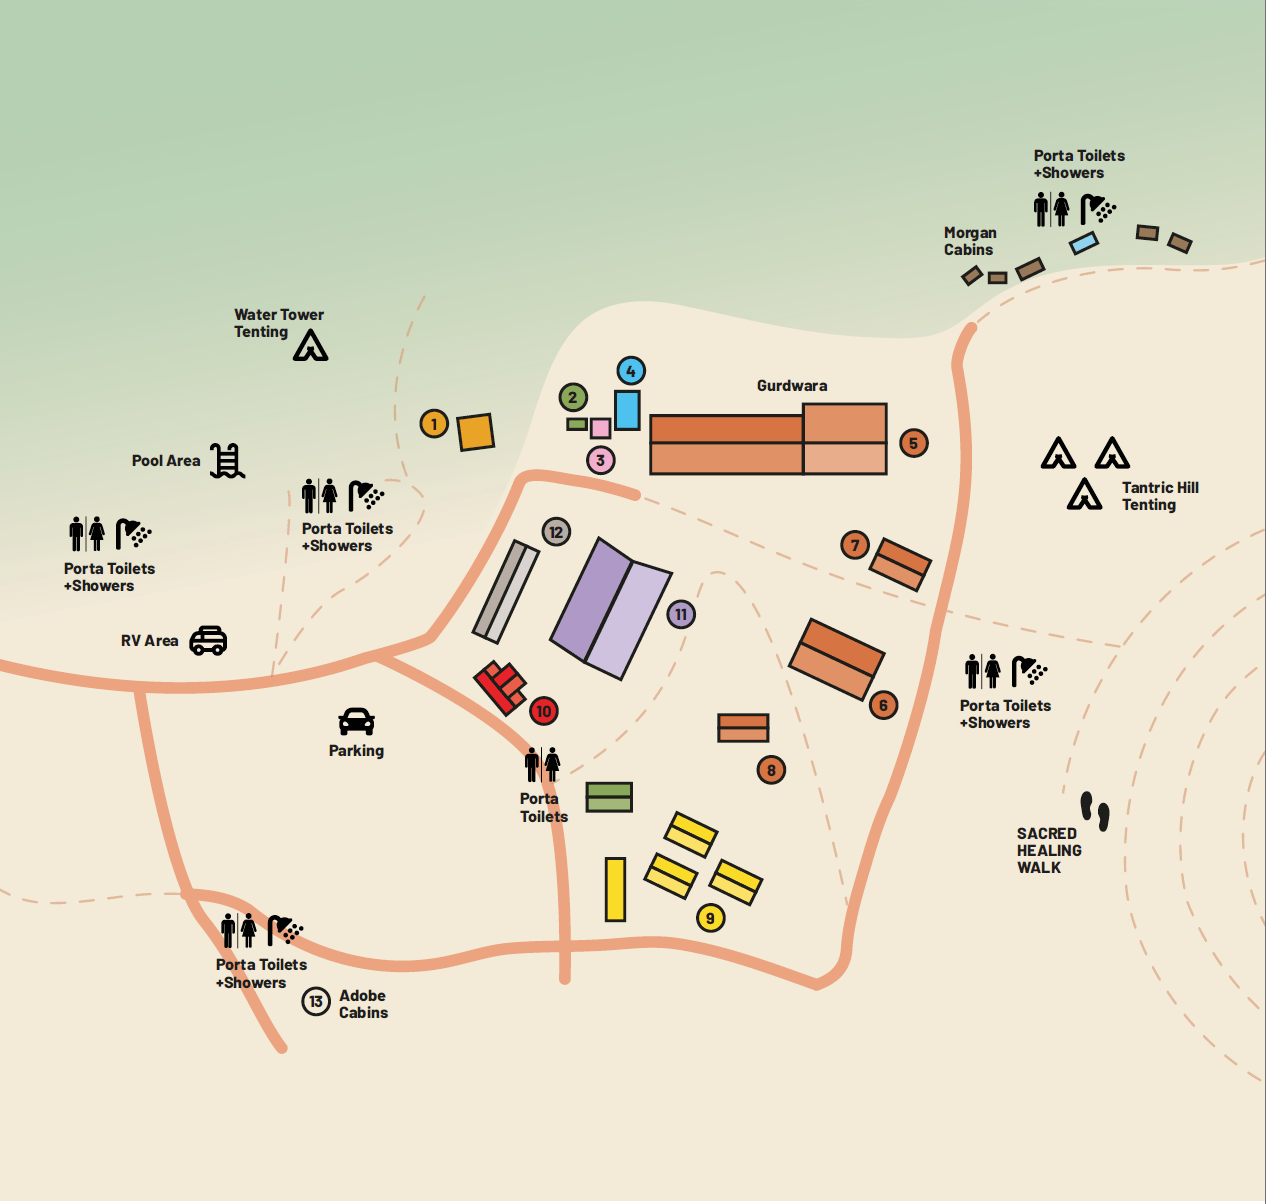
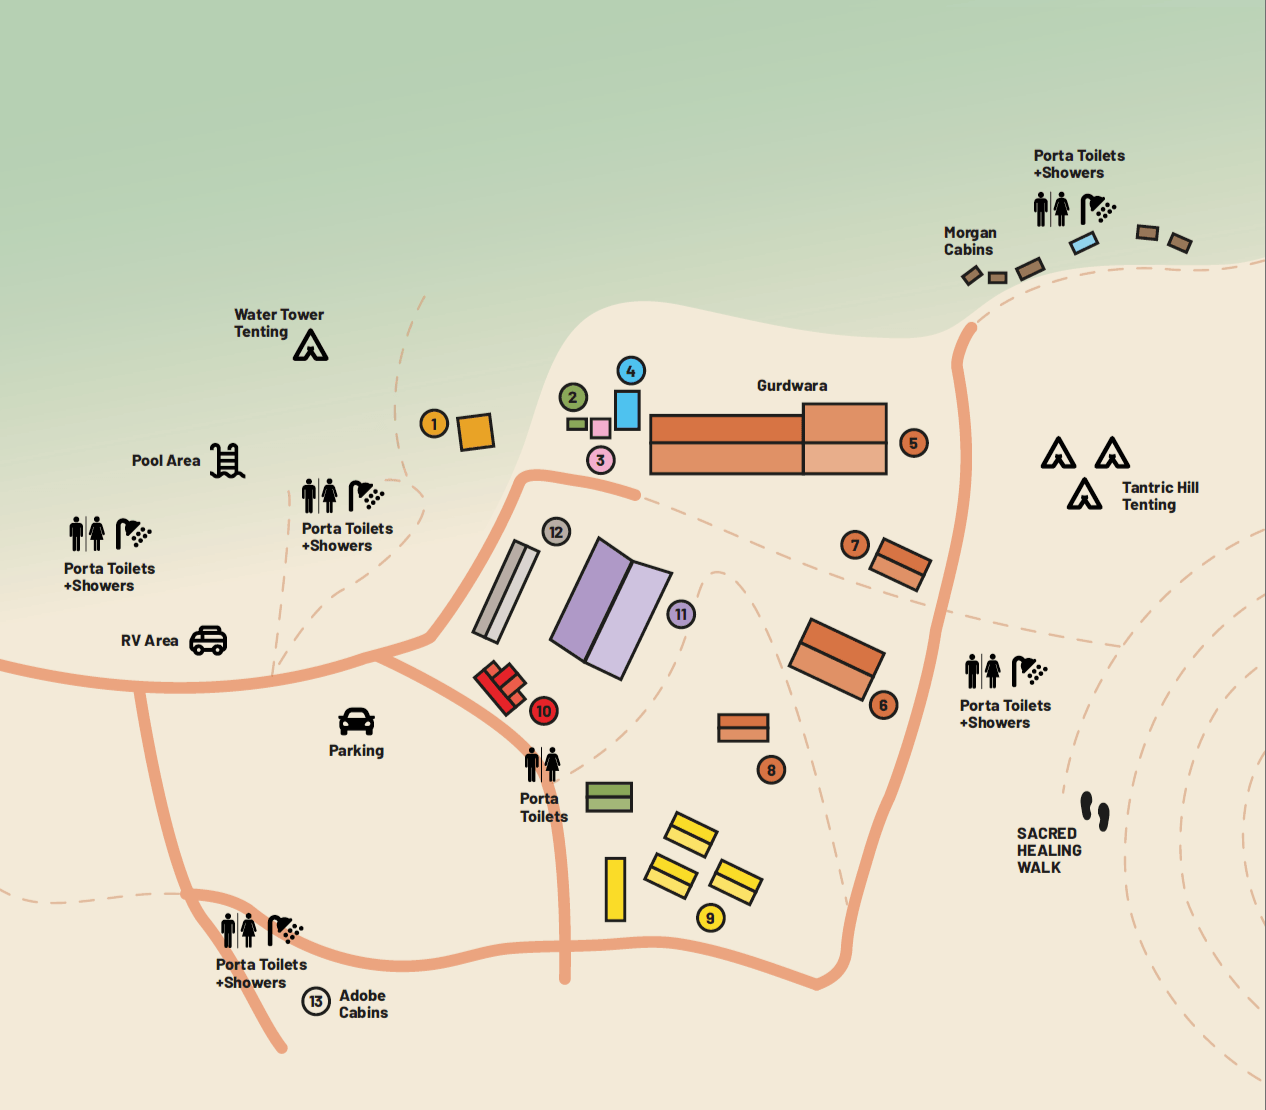
ajustes de carga y mapa

diff --git a/src/app/map/map-viewer.tsx b/src/app/map/map-viewer.tsx
@@ -245,26 +245,6 @@ export function MapViewer() {
               <List className="h-3.5 w-3.5" />
               All venues
             </button>
-            <div className="ml-auto flex min-h-11 items-center gap-1 rounded-full bg-white p-1 shadow-sm ring-1 ring-sky-900/10">
-              <button
-                type="button"
-                onClick={() => applyZoom(zoom - ZOOM_STEP)}
-                disabled={zoom <= MIN_ZOOM}
-                className="inline-flex h-9 w-9 items-center justify-center rounded-full bg-sky-50 text-[#2f62b6] transition active:scale-95 disabled:opacity-40"
-                aria-label="Zoom out map"
-              >
-                <Minus className="h-4 w-4" />
-              </button>
-              <button
-                type="button"
-                onClick={() => applyZoom(zoom + ZOOM_STEP)}
-                disabled={zoom >= MAX_ZOOM}
-                className="inline-flex h-9 w-9 items-center justify-center rounded-full bg-[#2f62b6] text-white transition active:scale-95 disabled:opacity-40"
-                aria-label="Zoom in map"
-              >
-                <Plus className="h-4 w-4" />
-              </button>
-            </div>
           </div>
           <div className="no-scrollbar mt-3 flex gap-2 overflow-x-auto pb-1">
             {featuredVenues.map((item) => (
@@ -290,32 +270,100 @@ export function MapViewer() {
             ))}
           </div>
         </div>
-        <div
-          ref={containerRef}
-          className="app-map-scroll relative h-[58vh] min-h-[22rem] max-h-[44rem] overflow-auto bg-[#f3ead8] overscroll-contain"
-        >
-          <div className="relative" style={{ width: scaledWidth, height: scaledHeight }}>
-            {/* eslint-disable-next-line @next/next/no-img-element */}
-            <img
-              src="/images/camp-map.png"
-              alt="Camp map for Summer Solstice 2026"
-              width={scaledWidth}
-              height={scaledHeight}
-              className="absolute inset-0 max-w-none"
-            />
-            {selectedItem ? (
-              <div
-                className="pointer-events-none absolute flex h-14 w-14 -translate-x-1/2 -translate-y-1/2 items-center justify-center rounded-full bg-sky-200/25 ring-4 ring-[#2f62b6]/30"
-                style={{ left: selectedItem.point.x * zoom, top: selectedItem.point.y * zoom }}
-              >
-                <span
-                  className="flex h-8 w-8 items-center justify-center rounded-full border-2 border-slate-950 text-sm font-black text-slate-950 shadow-lg"
-                  style={{ backgroundColor: selectedItem.color }}
+        <div className="relative">
+          <div
+            ref={containerRef}
+            className="app-map-scroll relative h-[58vh] min-h-[22rem] max-h-[44rem] overflow-auto bg-[#f3ead8] overscroll-contain"
+          >
+            <div
+              className="relative"
+              style={{ width: scaledWidth, height: scaledHeight }}
+              onClick={() => setSelectedVenue(null)}
+            >
+              {/* eslint-disable-next-line @next/next/no-img-element */}
+              <img
+                src="/images/camp-map.png"
+                alt="Camp map for Summer Solstice 2026"
+                width={scaledWidth}
+                height={scaledHeight}
+                className="absolute inset-0 max-w-none"
+              />
+              {mapLegend.map((item) => (
+                <button
+                  key={item.number}
+                  type="button"
+                  onClick={(event) => {
+                    event.stopPropagation();
+                    setSelectedVenue(item.number);
+                  }}
+                  aria-label={`Show ${item.label.replace(/\n/g, ", ")} on map`}
+                  aria-describedby={selectedVenue === item.number ? `map-tooltip-${item.number}` : undefined}
+                  className={`absolute z-10 flex h-12 w-12 -translate-x-1/2 -translate-y-1/2 items-center justify-center rounded-full transition active:scale-95 focus-visible:bg-white/80 focus-visible:outline-none focus-visible:ring-2 focus-visible:ring-[#2f62b6] ${
+                    selectedVenue === item.number ? "bg-white/15 ring-2 ring-[#2f62b6]/45" : "bg-transparent"
+                  }`}
+                  style={{ left: item.point.x * zoom, top: item.point.y * zoom }}
                 >
-                  {selectedItem.number}
-                </span>
-              </div>
-            ) : null}
+                  <span className="sr-only">{item.shortLabel}</span>
+                </button>
+              ))}
+              {selectedItem ? (
+                <div
+                  className="pointer-events-none absolute z-20 flex h-14 w-14 -translate-x-1/2 -translate-y-1/2 items-center justify-center rounded-full bg-sky-200/25 ring-4 ring-[#2f62b6]/30"
+                  style={{ left: selectedItem.point.x * zoom, top: selectedItem.point.y * zoom }}
+                >
+                  <span
+                    className="flex h-8 w-8 items-center justify-center rounded-full border-2 border-slate-950 text-sm font-black text-slate-950 shadow-lg"
+                    style={{ backgroundColor: selectedItem.color }}
+                  >
+                    {selectedItem.number}
+                  </span>
+                </div>
+              ) : null}
+              {selectedItem ? (
+                <div
+                  id={`map-tooltip-${selectedItem.number}`}
+                  role="tooltip"
+                  className="pointer-events-none absolute z-30 w-52 -translate-x-1/2 -translate-y-[calc(100%+1rem)] rounded-xl bg-white px-3 py-2 text-left shadow-xl ring-1 ring-sky-900/10"
+                  style={{ left: selectedItem.point.x * zoom, top: selectedItem.point.y * zoom }}
+                >
+                  <span className="absolute left-1/2 top-full h-3 w-3 -translate-x-1/2 -translate-y-1/2 rotate-45 bg-white ring-1 ring-sky-900/10" />
+                  <span className="relative flex items-start gap-2">
+                    <span
+                      className="flex h-7 w-7 shrink-0 items-center justify-center rounded-full border border-slate-950/30 text-xs font-black text-slate-950"
+                      style={{ backgroundColor: selectedItem.color }}
+                    >
+                      {selectedItem.number}
+                    </span>
+                    <span className="min-w-0">
+                      <span className="block text-sm font-black leading-tight text-slate-950">{selectedItem.shortLabel}</span>
+                      <span className="mt-0.5 block whitespace-pre-line text-xs font-semibold leading-snug text-slate-600">
+                        {selectedItem.label}
+                      </span>
+                    </span>
+                  </span>
+                </div>
+              ) : null}
+            </div>
+          </div>
+          <div className="absolute bottom-3 right-3 z-20 flex min-h-11 items-center gap-1 rounded-full bg-white/95 p-1 shadow-lg ring-1 ring-sky-900/10 backdrop-blur">
+            <button
+              type="button"
+              onClick={() => applyZoom(zoom - ZOOM_STEP)}
+              disabled={zoom <= MIN_ZOOM}
+              className="inline-flex h-9 w-9 items-center justify-center rounded-full bg-sky-50 text-[#2f62b6] transition active:scale-95 disabled:opacity-40"
+              aria-label="Zoom out map"
+            >
+              <Minus className="h-4 w-4" />
+            </button>
+            <button
+              type="button"
+              onClick={() => applyZoom(zoom + ZOOM_STEP)}
+              disabled={zoom >= MAX_ZOOM}
+              className="inline-flex h-9 w-9 items-center justify-center rounded-full bg-[#2f62b6] text-white transition active:scale-95 disabled:opacity-40"
+              aria-label="Zoom in map"
+            >
+              <Plus className="h-4 w-4" />
+            </button>
           </div>
         </div>
       </div>

diff --git a/src/components/offline-preloader.tsx b/src/components/offline-preloader.tsx
@@ -5,13 +5,14 @@ import type { Activity } from "@/lib/types";
 import { CheckCircle, X } from "lucide-react";
 import { useEffect, useMemo, useRef, useState } from "react";
 
-const CACHE_NAME = "solstice-full-offline-v31";
-const STORAGE_KEY = "solstice-full-offline-v31-complete";
-const DISMISSED_KEY = "solstice-full-offline-v31-dismissed";
+const CACHE_NAME = "solstice-full-offline-v34";
+const STORAGE_KEY = "solstice-full-offline-v34-complete";
+const DISMISSED_KEY = "solstice-full-offline-v34-dismissed";
 const OLD_CACHE_PREFIX = "solstice-full-offline-";
 const CONCURRENCY = 6;
 
-const staticRoutes = ["/", "/program", "/favorites", "/info", "/map", "/womens-renewal", "/manifest.webmanifest"];
+const staticPageRoutes = ["/", "/program", "/favorites", "/info", "/map", "/womens-renewal"];
+const staticRoutes = [...staticPageRoutes, "/manifest.webmanifest"];
 const staticAssets = [
   "/images/solstice-cover-top.jpg",
   "/images/solstice-cover.jpg",
@@ -27,6 +28,11 @@ const staticAssets = [
   "/icons/icon-512.png",
   "/womens-renewal-2026.ics",
 ];
+
+function routePayloadUrl(route: string) {
+  if (route === "/") return "/index.txt";
+  return `${route.replace(/\/$/, "")}.txt`;
+}
 
 async function waitForServiceWorker() {
   if (!("serviceWorker" in navigator)) return;
@@ -187,7 +193,9 @@ export function OfflinePreloader() {
 
   const urls = useMemo(() => {
     const detailRoutes = (program as Activity[]).map((activity) => `/program/${activity.id}`);
-    return Array.from(new Set([...staticRoutes, ...detailRoutes, ...staticAssets]));
+    const pageRoutes = [...staticPageRoutes, ...detailRoutes];
+    const routePayloads = process.env.NODE_ENV === "production" ? pageRoutes.map(routePayloadUrl) : [];
+    return Array.from(new Set([...staticRoutes, ...detailRoutes, ...routePayloads, ...staticAssets]));
   }, []);
 
   useEffect(() => {

diff --git a/src/app/map/page.tsx b/src/app/map/page.tsx
@@ -1,35 +1,5 @@
 import { MapViewer } from "./map-viewer";
-import { CheckCircle, MapPin } from "lucide-react";
 
 export default function MapPage() {
-  return (
-    <div className="space-y-5">
-      <section className="relative overflow-hidden rounded-2xl border border-sky-900/10 bg-white p-5 shadow-[0_18px_48px_rgba(47,98,182,0.08)]">
-        <div className="absolute -right-12 -top-12 h-36 w-36 rounded-full bg-[#ffd66b]/35 blur-3xl" />
-        <div className="relative flex items-start justify-between gap-4">
-          <div>
-            <p className="solstice-kicker text-xs font-black uppercase text-[#f39200]">Camp Map</p>
-            <h1 className="mt-1 text-4xl font-black tracking-[-0.055em] text-[#2f62b6]">Venues</h1>
-            <p className="mt-2 max-w-md text-sm font-semibold leading-6 text-slate-600">
-              Ram Das Puri venues, services, and gathering areas.
-            </p>
-          </div>
-          <div className="hidden shrink-0 items-center gap-2 rounded-full bg-sky-50 px-3 py-2 text-xs font-black text-[#2f62b6] ring-1 ring-sky-900/10 sm:inline-flex">
-            <CheckCircle className="h-4 w-4" />
-            Offline ready
-          </div>
-        </div>
-        <div className="relative mt-4 flex flex-wrap gap-2">
-          <span className="inline-flex min-h-9 items-center gap-2 rounded-full bg-orange-50 px-3 py-1.5 text-xs font-black text-[#9a5a00] ring-1 ring-[#f39200]/20">
-            <MapPin className="h-3.5 w-3.5" />
-            Ram Das Puri
-          </span>
-          <span className="inline-flex min-h-9 items-center rounded-full bg-sky-50 px-3 py-1.5 text-xs font-black text-[#2f62b6] ring-1 ring-sky-900/10">
-            Venues and services
-          </span>
-        </div>
-      </section>
-      <MapViewer />
-    </div>
-  );
+  return <MapViewer />;
 }

diff --git a/src/app/layout.tsx b/src/app/layout.tsx
@@ -4,6 +4,8 @@ import { AppLink as Link } from "@/components/app-link";
 import { OfflinePreloader } from "@/components/offline-preloader";
 import { BottomNav } from "@/components/bottom-nav";
 import { WomensRenewalReminder } from "@/components/womens-renewal-reminder";
+import { NavigationWarmup } from "@/components/navigation-warmup";
+import { RouteTransitionShell } from "@/components/route-transition-shell";
 import "./globals.css";
 
 const geistSans = Geist({ variable: "--font-geist-sans", subsets: ["latin"] });
@@ -43,7 +45,10 @@ export default function RootLayout({ children }: Readonly<{ children: React.Reac
               </Link>
             </div>
           </header>
-          <main className="safe-bottom flex-1 px-4 pb-5 pt-3">{children}</main>
+          <main className="safe-bottom flex-1 px-4 pb-5 pt-3">
+            <RouteTransitionShell>{children}</RouteTransitionShell>
+          </main>
+          <NavigationWarmup />
           <OfflinePreloader />
           <WomensRenewalReminder />
           <BottomNav />

diff --git a/src/components/app-link.tsx b/src/components/app-link.tsx
@@ -1,14 +1,29 @@
 import type { AnchorHTMLAttributes, ReactNode } from "react";
+import NextLink from "next/link";
 
 type AppLinkProps = Omit<AnchorHTMLAttributes<HTMLAnchorElement>, "href"> & {
   href: string;
   children: ReactNode;
+  prefetch?: boolean | "auto" | null | "unstable_forceStale";
+  replace?: boolean;
+  scroll?: boolean;
 };
 
-export function AppLink({ href, children, ...props }: AppLinkProps) {
+export function AppLink({ href, children, prefetch = true, replace, scroll, ...props }: AppLinkProps) {
+  const isHashOnly = href.startsWith("#");
+  const isExternal = /^[a-zA-Z][a-zA-Z\d+.-]*:/.test(href) || href.startsWith("//");
+
+  if (isHashOnly || isExternal || props.download) {
+    return (
+      <a href={href} {...props}>
+        {children}
+      </a>
+    );
+  }
+
   return (
-    <a href={href} {...props}>
+    <NextLink href={href} prefetch={prefetch} replace={replace} scroll={scroll} {...props}>
       {children}
-    </a>
+    </NextLink>
   );
 }

diff --git a/src/components/route-transition-shell.tsx b/src/components/route-transition-shell.tsx
@@ -1,0 +1,21 @@
+"use client";
+
+import { usePathname } from "next/navigation";
+import { type ReactNode, useEffect, useState } from "react";
+
+export function RouteTransitionShell({ children }: { children: ReactNode }) {
+  const pathname = usePathname();
+  const [entered, setEntered] = useState(false);
+
+  useEffect(() => {
+    setEntered(false);
+    const frame = window.requestAnimationFrame(() => setEntered(true));
+    return () => window.cancelAnimationFrame(frame);
+  }, [pathname]);
+
+  return (
+    <div key={pathname} className={`route-transition-shell ${entered ? "route-transition-shell-entered" : ""}`}>
+      {children}
+    </div>
+  );
+}

diff --git a/src/app/globals.css b/src/app/globals.css
@@ -130,6 +130,30 @@ select {
   user-select: none;
 }
 
+.route-transition-shell {
+  min-height: 100%;
+  opacity: 0;
+  transform: translate3d(0, 0.45rem, 0);
+  transition:
+    opacity 160ms cubic-bezier(0.22, 1, 0.36, 1),
+    transform 220ms cubic-bezier(0.22, 1, 0.36, 1);
+  will-change: opacity, transform;
+}
+
+.route-transition-shell-entered {
+  opacity: 1;
+  transform: translate3d(0, 0, 0);
+}
+
+@media (prefers-reduced-motion: reduce) {
+  .route-transition-shell {
+    opacity: 1;
+    transform: none;
+    transition: none;
+    will-change: auto;
+  }
+}
+
 .day-filter-button {
   flex: 0 0 auto;
   min-width: max-content;

diff --git a/next.config.ts b/next.config.ts
@@ -1,7 +1,7 @@
 import type { NextConfig } from "next";
 import withPWAInit from "@ducanh2912/next-pwa";
 
-const OFFLINE_CACHE = "solstice-full-offline-v31";
+const OFFLINE_CACHE = "solstice-full-offline-v34";
 
 const withPWA = withPWAInit({
   dest: "public",
@@ -27,6 +27,7 @@ const withPWA = withPWAInit({
           request.destination === "script" ||
           request.destination === "style" ||
           request.destination === "image" ||
+          url.pathname.endsWith(".txt") ||
           url.pathname === "/manifest.webmanifest",
         handler: "CacheFirst",
         options: {

diff --git a/src/components/navigation-warmup.tsx b/src/components/navigation-warmup.tsx
@@ -1,0 +1,23 @@
+"use client";
+
+import { useRouter } from "next/navigation";
+import { useEffect } from "react";
+
+const primaryRoutes = ["/", "/program", "/favorites", "/info", "/map", "/womens-renewal"];
+
+export function NavigationWarmup() {
+  const router = useRouter();
+
+  useEffect(() => {
+    const warm = () => {
+      for (const route of primaryRoutes) {
+        router.prefetch(route);
+      }
+    };
+
+    const id = window.setTimeout(warm, 350);
+    return () => window.clearTimeout(id);
+  }, [router]);
+
+  return null;
+}
